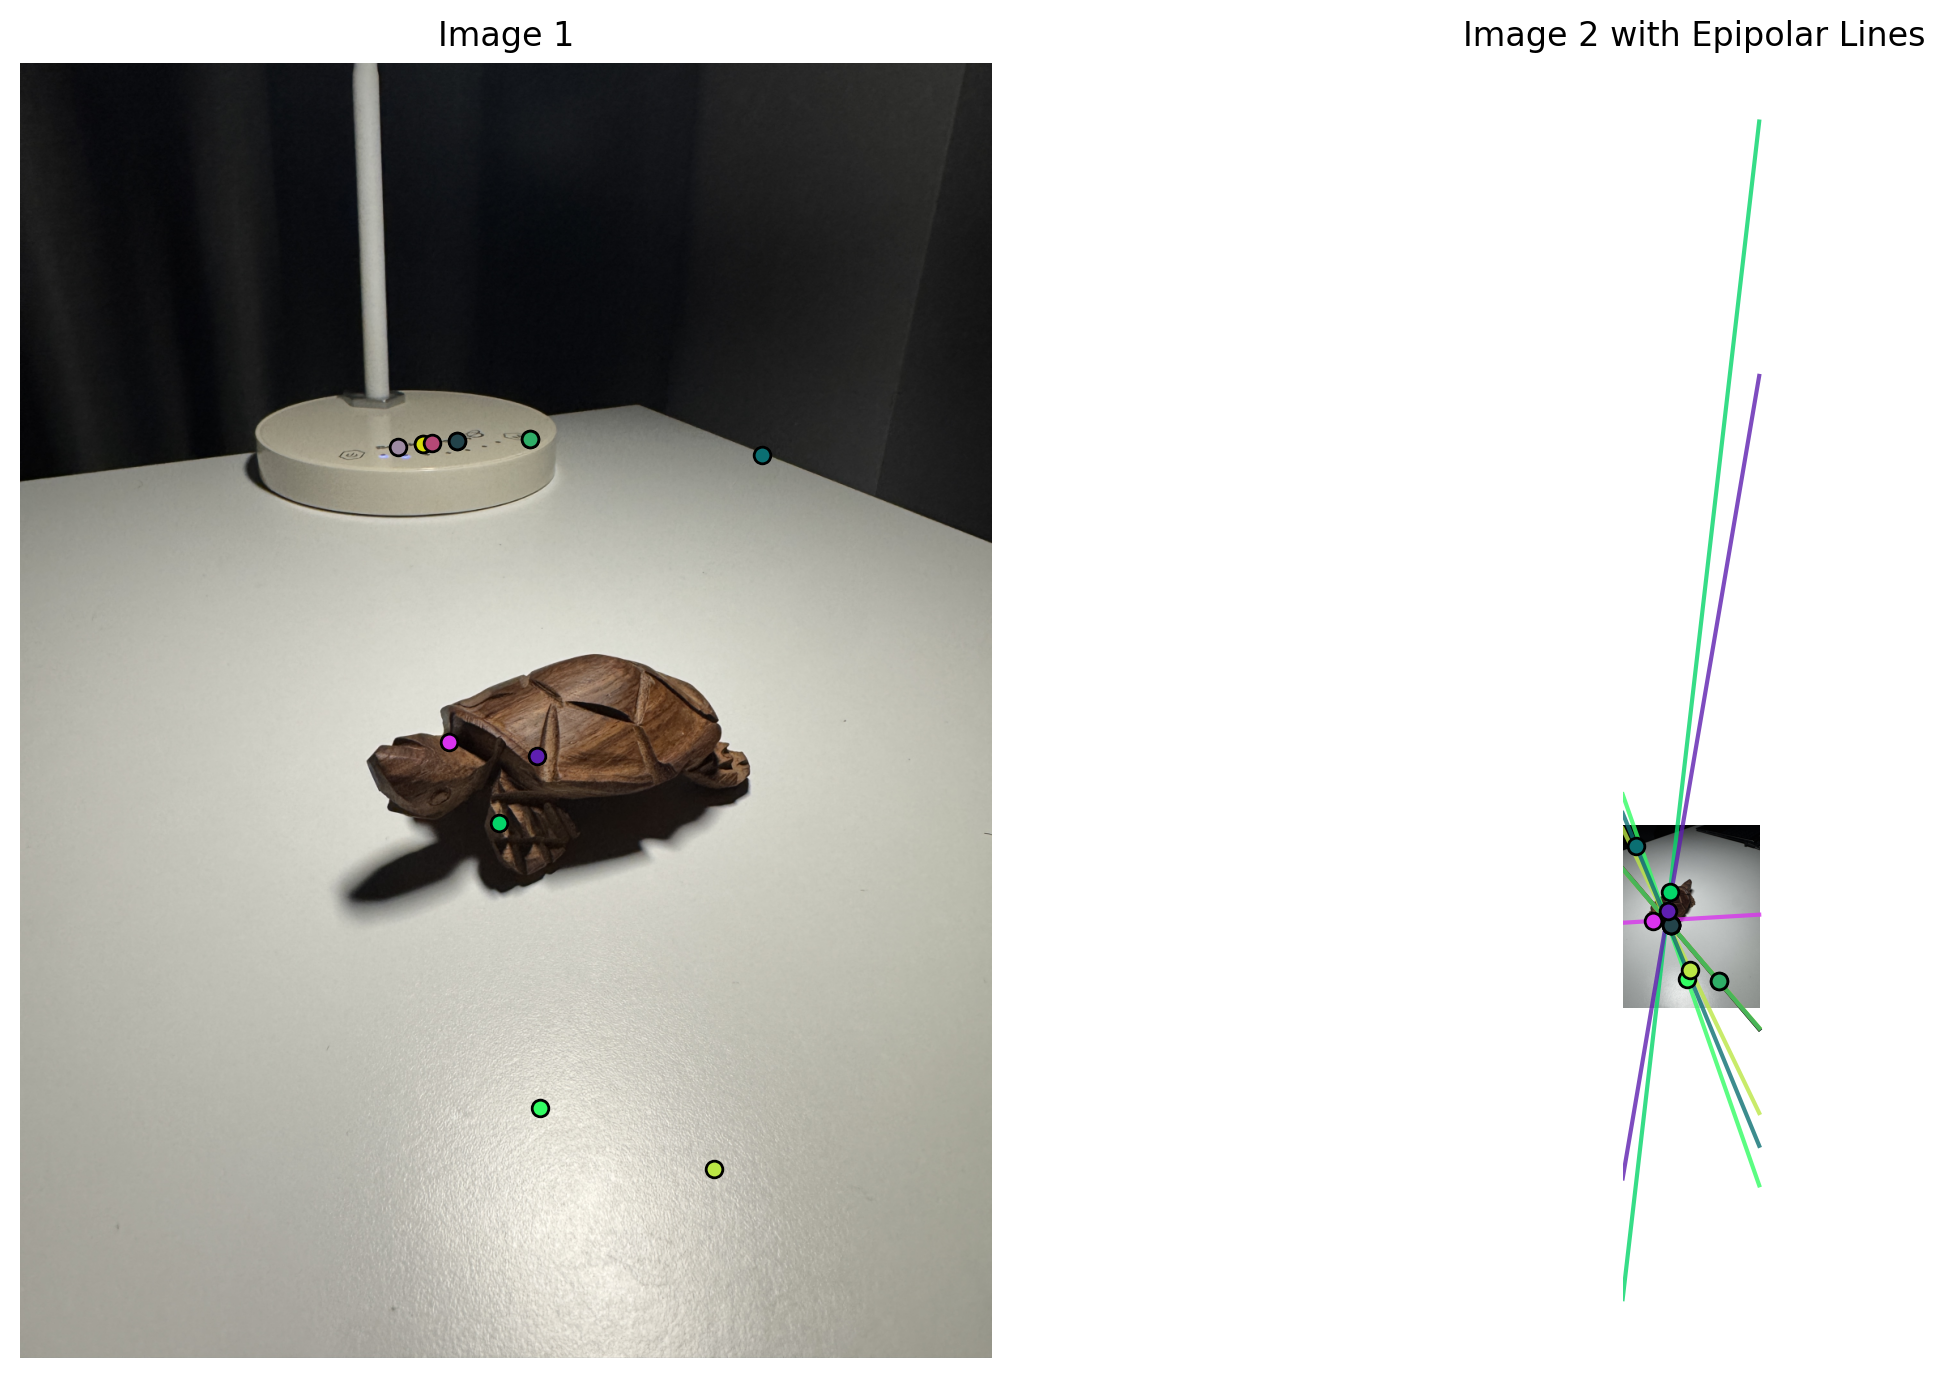
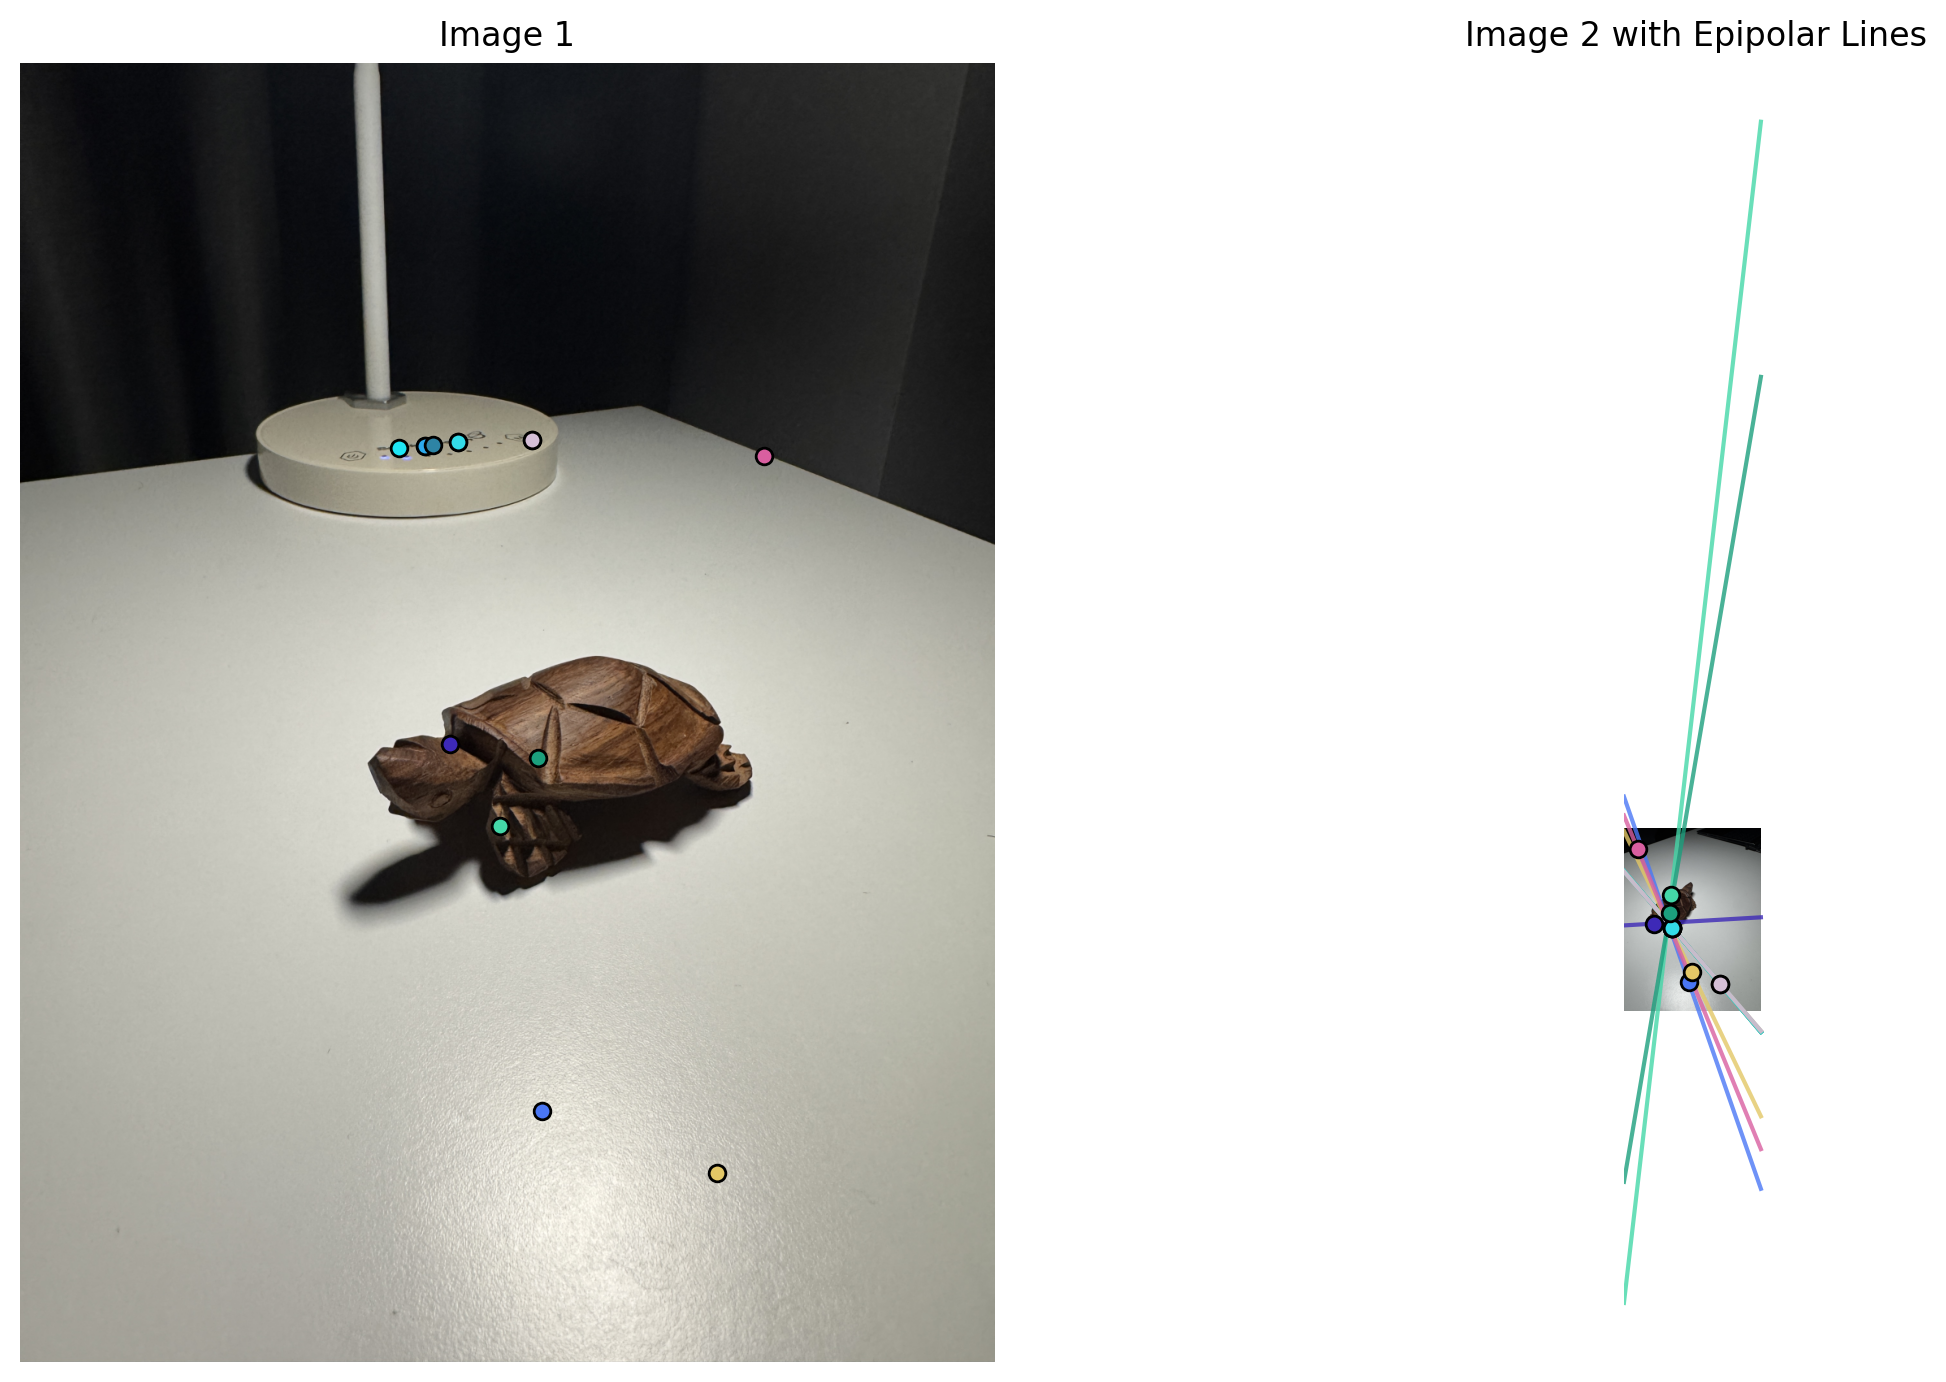
sensitivity to features

diff --git a/week2/sfm_utils.py b/week2/sfm_utils.py
@@ -247,9 +247,8 @@ def count_raw_matches(desc1: np.ndarray, desc2: np.ndarray) -> int:
     A simple definition is len(raw_descriptor_matches(desc1, desc2)). This
     gives a useful denominator for comparing raw and filtered matching.
     """
-    count = len(raw_descriptor_matches(desc1, desc2))
-        
-    return count
+    
+    return len(raw_descriptor_matches(desc1, desc2))
 
 
 def matched_keypoint_coords(
@@ -463,10 +462,6 @@ def analyse_image_pair(
     8. Return a PairAnalysis object.
     """
 
-    # don't need to do this? done by precompute_image_features
-    # img1 = load_image(image1_path, max_image_size)
-    # img2 = load_image(image2_path, max_image_size)
-
     features = precompute_image_features([image1_path, image2_path], max_features=max_features, max_image_size=max_image_size)
 
     return analyse_feature_pair(features[0], features[1], output_dir, ratio, save_figures)
@@ -500,7 +495,7 @@ def analyse_feature_pair(
     img2_name = features2.path.name
     
     raw_matches = raw_descriptor_matches(features1.descriptors, features2.descriptors)
-    raw_matches_count = count_raw_matches(features1.descriptors, features2.descriptors)
+    raw_matches_count = len(raw_matches)
     filtered_matches = match_descriptors(features1.descriptors, features2.descriptors, ratio)
     
     pts1, pts2 = matched_keypoint_coords(features1.keypoints, features2.keypoints, filtered_matches)